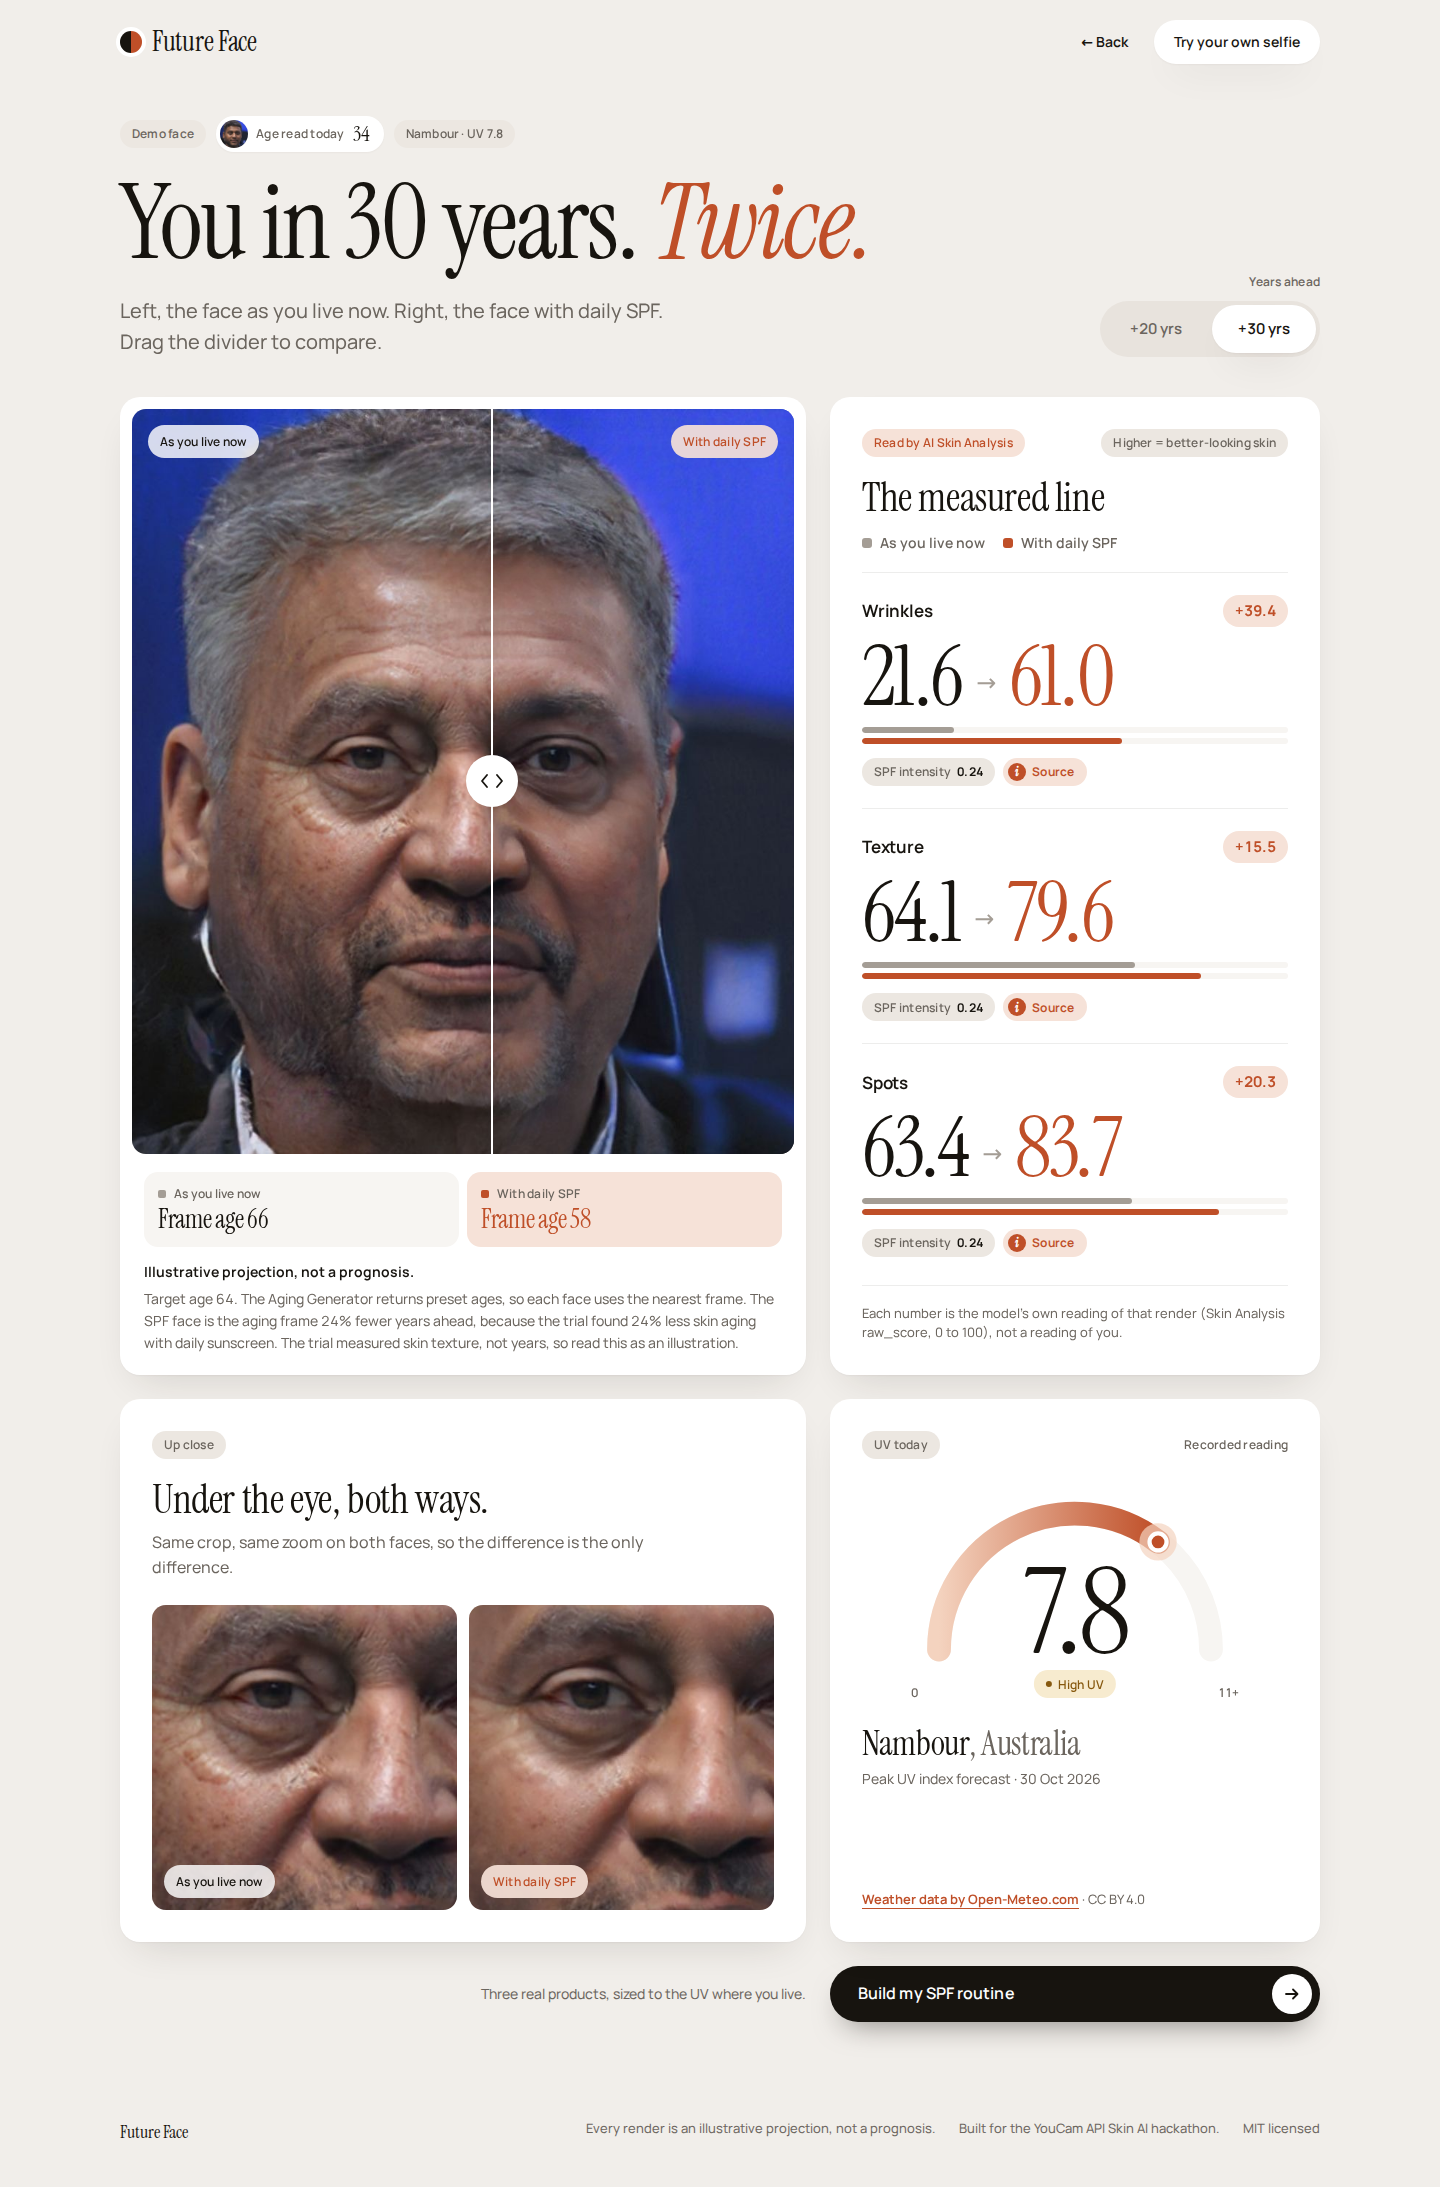
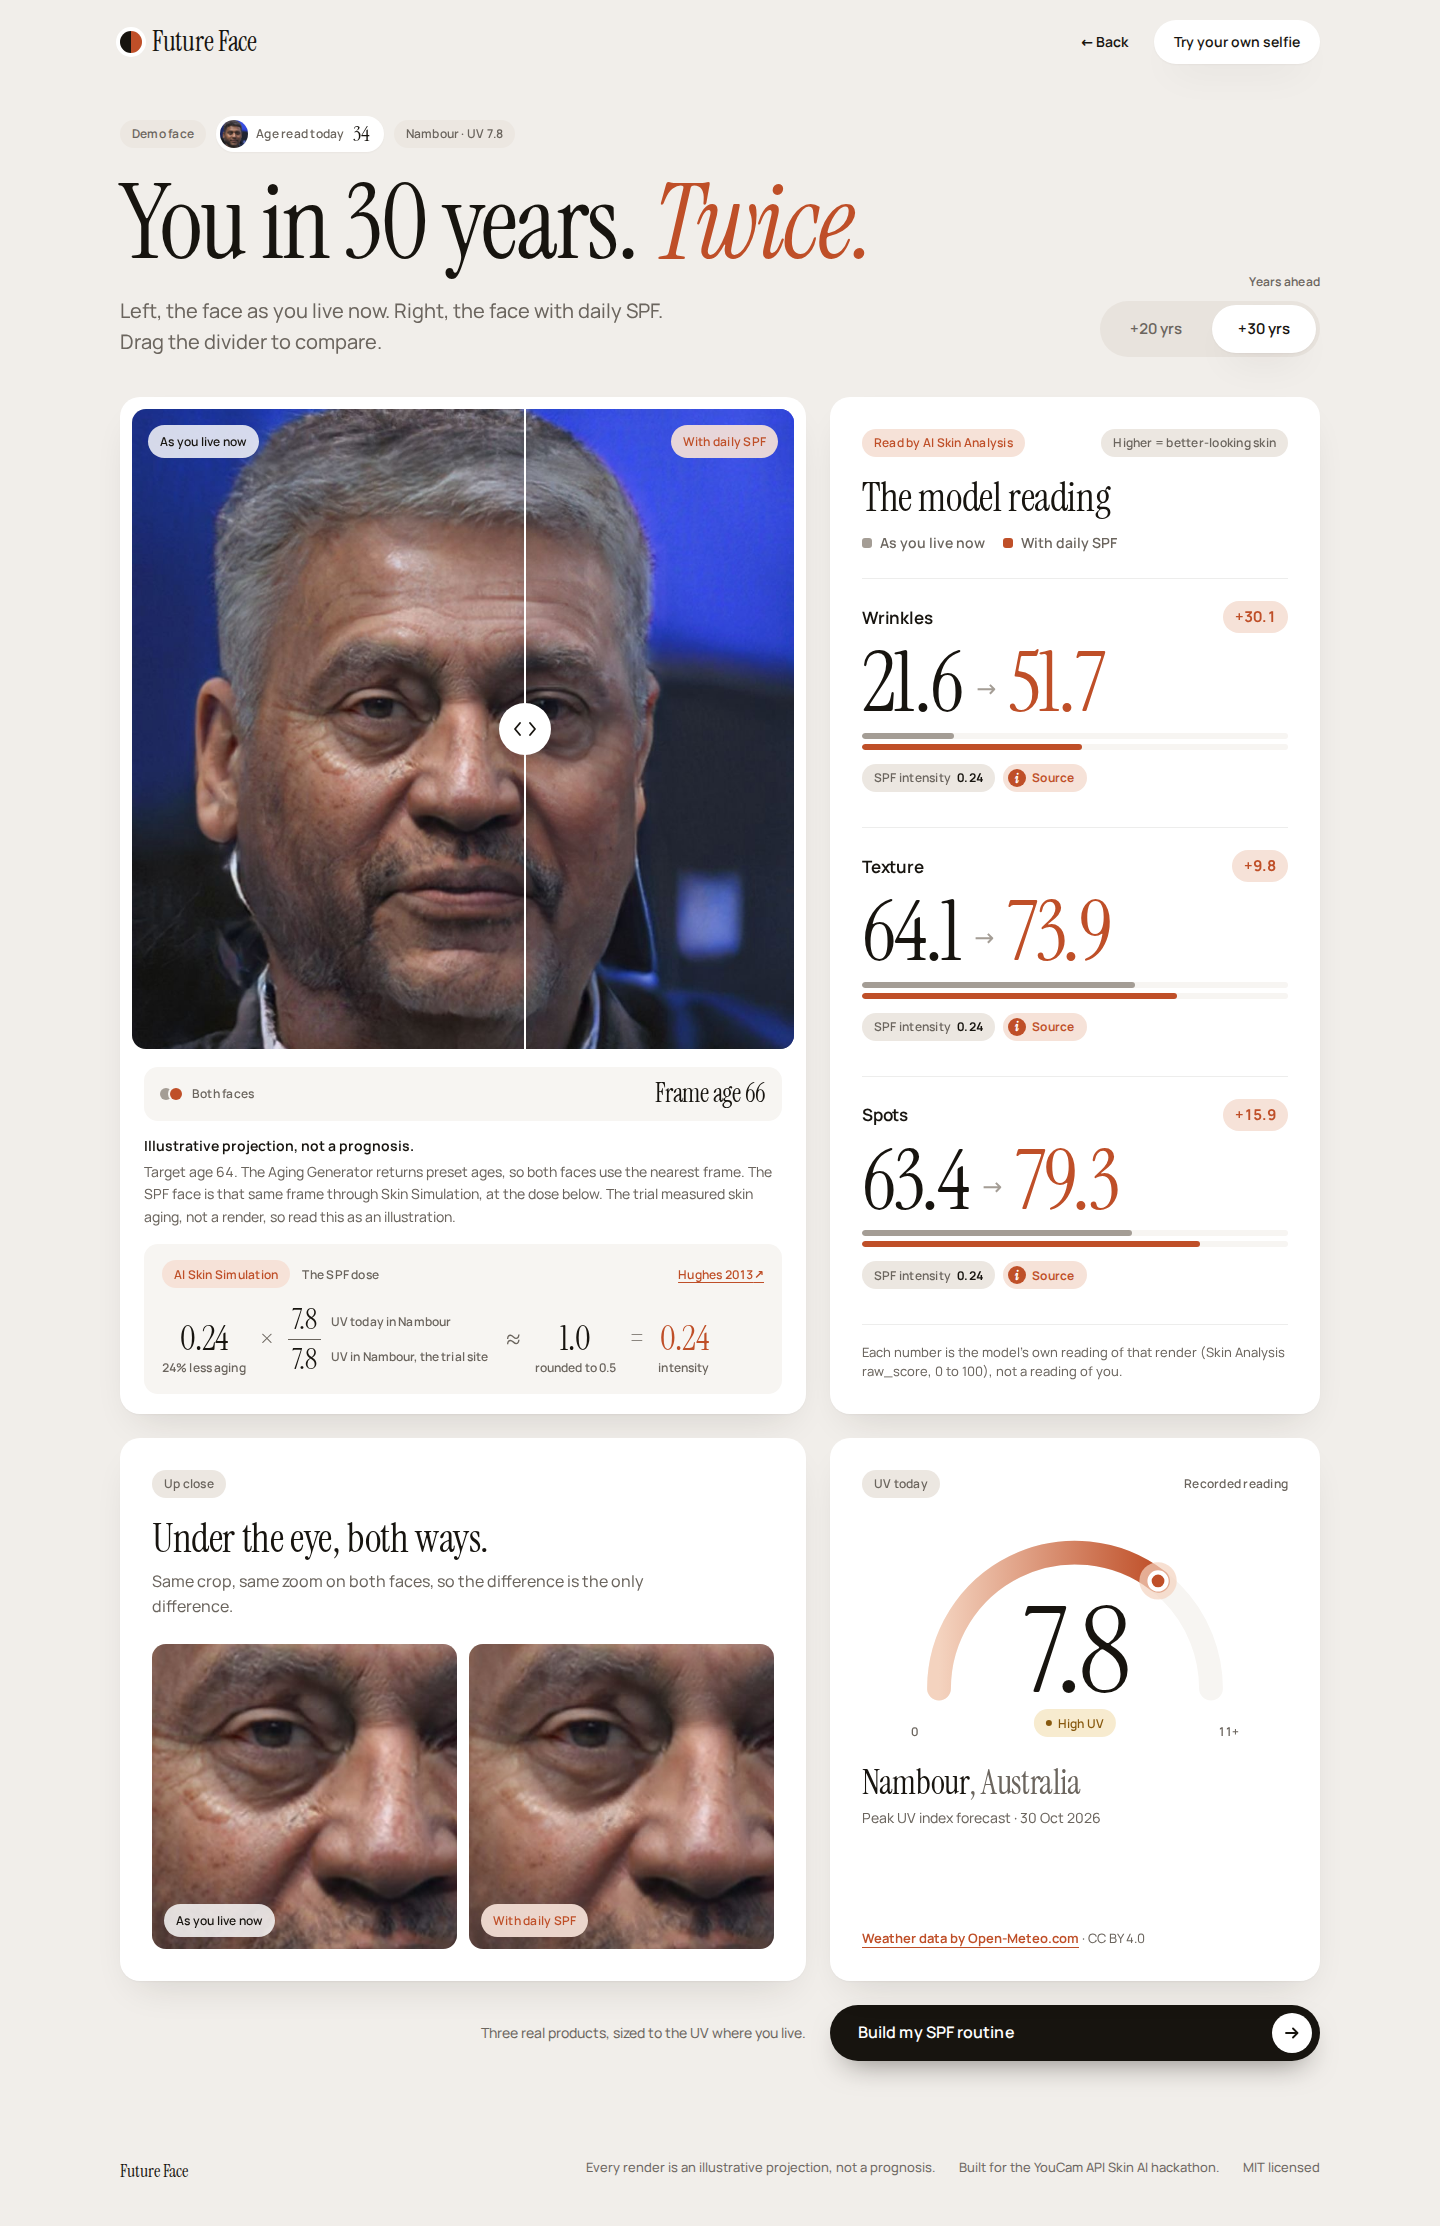
readme and demo: one frame, uv dose

diff --git a/README.md b/README.md
@@ -1,12 +1,12 @@
 # Future Face
 
-**Two faces of you in 20 or 30 years, side by side: one that kept living as now, and one that wore sunscreen every day, both measured by the same model.**
+**Two faces of you in 20 or 30 years, side by side: one that kept living as now, and one that wore sunscreen every day, both read by the same model.**
 
-One selfie goes through three YouCam APIs in a row. The **AI Aging Generator** projects you forward. The "as you live now" face is the frame for the full horizon; the "with daily SPF" face is an earlier frame, 24% fewer years ahead, because a 4.5-year trial found 24% less skin aging with daily sunscreen (Hughes et al., 2013). **AI Skin Simulation** gives the SPF face a light finishing pass (spots, wrinkles and texture at 0.24). **AI Skin Analysis** then reads both renders, so the gap shows up as numbers. Then the app sizes an SPF routine of real products (from Open Beauty Facts) to your city's UV index. A store can embed all of it on a product page with two lines of HTML.
+One selfie goes through three YouCam APIs in a row. The **AI Aging Generator** projects you forward. Both faces start from the same aging frame for the full horizon. The "as you live now" face is that frame as it is; the "with daily SPF" face is that same frame run through **AI Skin Simulation** (spots, wrinkles and texture), at 0.24 x your city's UV / Nambour's UV. The 0.24 comes from a 4.5-year trial that found 24% less skin aging with daily sunscreen (Hughes et al., 2013), run in Nambour, Australia. **AI Skin Analysis** then reads both renders, so the gap shows up as numbers. Then the app sizes an SPF routine of real products (from Open Beauty Facts) to your city's UV index. A store can embed all of it on a product page with two lines of HTML.
 
-On the demo face in 30 years (frame age 66 as you live now, 58 with daily SPF), Skin Analysis reads wrinkles **21.6 → 61.0**, texture **64.1 → 79.6** and spots **63.4 → 83.7** (raw_score, higher = better-looking skin). These are the model's readings of two renders. They are an illustrative projection, not a prognosis.
+On the demo face in 30 years (frame age 66 for both faces, with daily SPF at Nambour's own UV, intensity 0.24), Skin Analysis reads wrinkles **21.6 → 51.7**, texture **64.1 → 73.9** and spots **63.4 → 79.3** (raw_score, higher = better-looking skin). These are the model's readings of two renders. They are an illustrative projection, not a prognosis.
 
-![The result screen: the demo face in 30 years, frame age 66 against 58, with a drag divider between "As you live now" and "With daily SPF", the measured line from AI Skin Analysis, a close-up and the UV card](docs/screenshots/result-desktop.png)
+![The result screen: the demo face in 30 years, one aging frame (66) for both sides, with a drag divider between "As you live now" and "With daily SPF", the SPF dose formula 0.24 × (UV 7.8 in Nambour / UV 7.8 in Nambour, the trial site) = 0.24 under it, the model reading from AI Skin Analysis, a close-up and the UV card](docs/screenshots/result-desktop.png)
 
 Built for the [YouCam API Skin AI & eCommerce VTO Hackathon](https://youcam-api-skin-ai-ecommerce.devpost.com/). Demo script: [docs/DEMO.md](docs/DEMO.md).
 
@@ -29,13 +29,13 @@ You need Bun. Next.js also needs a recent Node.js on the path.
 
 ## How it works
 
-1. **AI Aging Generator.** The selfie goes in. The API returns the age it reads today and a set of frames at preset ages (`res_age`). For each horizon (+20 and +30 years) the app picks two frames (ties go to the older frame). The "As you live now" face is the frame nearest to today's age + years. The "With daily SPF" face is the frame nearest to today's age + years × 0.76, that is 24% fewer years ahead (`SPF_AGING_REDUCTION` in [lib/evidence.ts](lib/evidence.ts)), because the trial below found 24% less skin aging with daily sunscreen. The trial measured skin aging (surface texture), not years, so this is an illustration. Each face is captioned with its frame: on the demo face at +30, "Frame age 66" and "Frame age 58". If both land on the same frame, the result says so and shows no measured gap.
-2. **AI Skin Simulation.** The SPF frame then gets a finishing pass with `spots`, `wrinkle` and `texture` at **0.24** each on the model's 0 to 1 scale. The earlier frame is what makes the two faces differ; this pass only polishes the SPF face. Both the 24% and the 0.24 come from the 24% less skin aging reported for daily sunscreen users against discretionary users in Hughes MCB, Williams GM, Baker P, Green AC. *Sunscreen and prevention of skin aging: a randomized trial.* Ann Intern Med. 2013;158(11):781-790. doi:[10.7326/0003-4819-158-11-201306040-00002](https://doi.org/10.7326/0003-4819-158-11-201306040-00002). Every intensity on screen has a **Source** chip that opens this citation.
-3. **AI Skin Analysis.** Both renders are read with the same SD actions (`wrinkle`, `age_spot`, `texture`). The **measured line** shows each `raw_score` (0 to 100, higher = better-looking skin) for both faces and the difference. It is labelled as the model's reading of a render, not a reading of you.
+1. **AI Aging Generator.** The selfie goes in. The API returns the age it reads today and a set of frames at preset ages (`res_age`). For each horizon (+20 and +30 years) the app picks one frame (ties go to the older frame): the frame nearest to today's age + years. Both faces use that same frame, so the gap between them is not a difference in age. One caption under the slider gives that frame for both faces: on the demo face at +30, "Both faces · Frame age 66".
+2. **AI Skin Simulation.** The SPF face is that frame run through Skin Simulation with `spots`, `wrinkle` and `texture` all set to the same intensity on the model's 0 to 1 scale: **0.24 × (your city's UV / Nambour's UV)**. The ratio is rounded to the nearest 0.5 and kept between 0.5 and 2.5, so the intensity is one of 0.12, 0.24, 0.36, 0.48 or 0.6 (`spfDose` in [lib/evidence.ts](lib/evidence.ts)). Nambour is where the trial ran; its UV is the recorded Open-Meteo reading in [fixtures/demo/uv.json](fixtures/demo/uv.json). The two faces differ only by this pass. The result shows the dose as a formula under the slider, with both UV readings and the rounded ratio: on the demo, 0.24 × (UV 7.8 in Nambour / UV 7.8 in Nambour, the trial site, rounded to 1.0) = 0.24. The 0.24 comes from the 24% less skin aging reported for daily sunscreen users against discretionary users in Hughes MCB, Williams GM, Baker P, Green AC. *Sunscreen and prevention of skin aging: a randomized trial.* Ann Intern Med. 2013;158(11):781-790. doi:[10.7326/0003-4819-158-11-201306040-00002](https://doi.org/10.7326/0003-4819-158-11-201306040-00002). Every intensity on screen has a **Source** chip that opens this citation.
+3. **AI Skin Analysis.** Both renders are read with the same SD actions (`wrinkle`, `age_spot`, `texture`). The **model reading** card shows each `raw_score` (0 to 100, higher = better-looking skin) for both faces and the difference. It is labelled as the model's reading of a render, not a reading of you.
 4. **UV where you live.** The city you type is looked up on [Open-Meteo](https://open-meteo.com/) (free, no key), which returns today's peak UV index forecast. The UV card shows the reading with "Weather data by Open-Meteo.com · CC BY 4.0". The demo uses a recorded reading for Nambour, Queensland (UV 7.8), where the Hughes trial ran.
 5. **Build my SPF routine.** The UV index sets the WHO band, and the band sets the routine: SPF 30 for low and moderate UV, SPF 50 for high and above. Two finger lengths (about ¼ teaspoon) for face and neck, and a top-up every 2 hours outdoors from moderate UV up. Each routine has three steps (morning, midday top-up, evening), drawn from real products in [fixtures/products.json](fixtures/products.json) (Open Beauty Facts data and photos, ODbL / CC BY-SA). Each card shows the photo, brand, SPF, size, why this step, and a link to the product on Open Beauty Facts. There are no prices: **Save** keeps a step in **Your routine**. `/result?product=<barcode>` makes that product the morning step and says whether its SPF covers the day; `/result?embed=1` is the same view for the store widget, and `/store/<barcode>` is a made-up shop, Sunday Pharmacy, showing the widget ([public/widget.js](public/widget.js)) embedded the way a store would.
 
-![The Source chip open on the measured line: 24% less skin aging with daily sunscreen, the Hughes 2013 citation and its doi](docs/screenshots/citation.png)
+![The Source chip open on the model reading: 24% less skin aging with daily sunscreen, the Hughes 2013 citation and its doi](docs/screenshots/citation.png)
 
 ![The SPF routine for UV 7.8: SPF 50, ¼ tsp, 2 h top-ups, three real products with photos, and the saved routine list](docs/screenshots/routine-desktop.png)
 
@@ -53,8 +53,8 @@ All calls are server-side, in [lib/youcam.ts](lib/youcam.ts). Each one registers
 
 | API | What it does here | Code |
 | --- | --- | --- |
-| AI Aging Generator | Reads today's age and returns `res_age` frames; per horizon (+20, +30 years) the app keeps the frame nearest to the full horizon for "as you live now" and the frame 24% fewer years ahead for "with daily SPF" | `ageFace`, `pickNearest`, `downloadFrame` in [lib/youcam.ts](lib/youcam.ts); `pickArmFrames` in [lib/pipeline.ts](lib/pipeline.ts) |
-| AI Skin Simulation | A finishing pass on the "With daily SPF" frame, with spots/wrinkle/texture at 0.24 | `simulateSkin` in [lib/youcam.ts](lib/youcam.ts); intensities and citation in [lib/evidence.ts](lib/evidence.ts) |
+| AI Aging Generator | Reads today's age and returns `res_age` frames; per horizon (+20, +30 years) the app keeps the frame nearest to the full horizon, used by both faces | `ageFace`, `pickNearest`, `downloadFrame` in [lib/youcam.ts](lib/youcam.ts) |
+| AI Skin Simulation | The "With daily SPF" face: the shared frame with spots/wrinkle/texture at 0.24 × (your UV / Nambour UV) | `simulateSkin` in [lib/youcam.ts](lib/youcam.ts); intensities and citation in [lib/evidence.ts](lib/evidence.ts) |
 | AI Skin Analysis | Reads `wrinkle`, `age_spot` and `texture` raw_score on both renders | `analyzeSkin` in [lib/youcam.ts](lib/youcam.ts); `measuredLine` in [lib/pipeline.ts](lib/pipeline.ts) |
 
 A live run costs about 46 YouCam units: aging about 2, two simulations about 4 each, four analyses about 9 each.
@@ -168,7 +168,7 @@ Errors come back as `{ "error": { "kind": "...", "message": "..." } }`, where `m
 
 - [app/page.tsx](app/page.tsx): landing, with the in-place upload
 - [app/result/page.tsx](app/result/page.tsx): the recorded demo result
-- [app/components/](app/components/): `Result` (slider, measured line, close-up, UV card), `Routine` (steps and saved list), `Upload`
+- [app/components/](app/components/): `Result` (slider, SPF dose formula, model reading, close-up, UV card), `Routine` (steps and saved list), `Upload`
 - [app/api/future/route.ts](app/api/future/route.ts): the API above
 - [lib/](lib/): YouCam client, pipeline, evidence, UV, routine, on-screen copy, banned-word check
 

diff --git a/docs/DEMO.md b/docs/DEMO.md
@@ -33,24 +33,24 @@ A 2 to 2.5 minute walkthrough for a live presenter or the demo video. It needs n
 **4. The slider (0:40 to 0:55)**
 
 - Do: drag the divider across the face, between **As you live now** and **With daily SPF**.
-- Show: the two captions under the slider, **Frame age 66** and **Frame age 58**.
-- Say: "Left is the Aging Generator frame thirty years on, as he lives now: grey hair, deeper lines. Right is an earlier frame, 24% fewer years ahead, because the trial found 24% less skin aging with daily sunscreen. That trial measured skin texture, not years, so this is an illustration. AI Skin Simulation adds a light finishing pass on the SPF face. The caption stays on screen: illustrative projection, not a prognosis."
+- Show: the one caption under the slider, **Both faces** **Frame age 66**, and under it **The SPF dose**: **0.24 × (7.8 / 7.8) ≈ 1.0 = 0.24**, with **UV today in Nambour** and **UV in Nambour, the trial site**.
+- Say: "Both faces are the same Aging Generator frame, thirty years on: grey hair, deeper lines. The only difference is the right side: that frame through AI Skin Simulation, at 0.24 times your city's UV today over the UV in Nambour, Queensland, where the sunscreen trial ran. Here the city is Nambour itself, so the dose is the trial's own 0.24; a sunnier city gets a stronger pass. The caption stays on screen: illustrative projection, not a prognosis."
 
 **5. Where 0.24 comes from (0:55 to 1:10)**
 
 - Click: **Source** on the **Wrinkles** row. The card **Why this intensity · 0.24** opens.
-- Say: "Every intensity has a source. Hughes and colleagues, Annals of Internal Medicine 2013: in a 4.5-year trial, daily sunscreen users showed 24% less skin aging than discretionary users. That 24% sets the earlier frame, and 0.24 is the finishing pass on the model's scale."
+- Say: "Every intensity has a source. Hughes and colleagues, Annals of Internal Medicine 2013: in a 4.5-year trial, daily sunscreen users showed 24% less skin aging than discretionary users. That 24% becomes 0.24 on the model's 0 to 1 scale, at the trial site's UV."
 - Click anywhere outside the card to close it.
 
-**6. The measured line (1:10 to 1:30)**
+**6. The model reading (1:10 to 1:30)**
 
-- Show: the card **Read by AI Skin Analysis**, **The measured line**, **Higher = better-looking skin**.
-- Say: "AI Skin Analysis reads both renders. Wrinkles 21.6 to 61.0, texture 64.1 to 79.6, spots 63.4 to 83.7. Each number is the model's reading of a render, not a reading of you."
+- Show: the card **Read by AI Skin Analysis**, **The model reading**, **Higher = better-looking skin**.
+- Say: "AI Skin Analysis reads both renders. Wrinkles 21.6 to 51.7, texture 64.1 to 73.9, spots 63.4 to 79.3. Each number is the model's reading of a render, not a reading of you."
 
 **7. Change the horizon (1:30 to 1:40)**
 
 - Click: **+20 yrs**, then **+30 yrs**.
-- Say: "Twenty years on the frames are 55 and 51, and wrinkles differ by plus 33.6. At thirty it is 66 against 58, and plus 39.4."
+- Say: "Twenty years on both faces are frame 55, and wrinkles differ by plus 20.7. At thirty it is frame 66, and plus 30.1."
 
 **8. UV where you live (1:40 to 1:50)**
 
@@ -67,4 +67,4 @@ A 2 to 2.5 minute walkthrough for a live presenter or the demo video. It needs n
 
 - Click: **Save** on the **Midday top-up** product. It turns to **Saved**; **Your routine** shows **1 item**.
 - Click: **Close Future Face** (the round button, top right). The window closes and the store page is back.
-- Say: "Two faces, measured, then a routine sized to the sun where you live, right on the product page. Future Face, built on the YouCam AI Aging Generator, AI Skin Simulation and AI Skin Analysis."
+- Say: "Two faces, read by the same model, then a routine sized to the sun where you live, right on the product page. Future Face, built on the YouCam AI Aging Generator, AI Skin Simulation and AI Skin Analysis."
